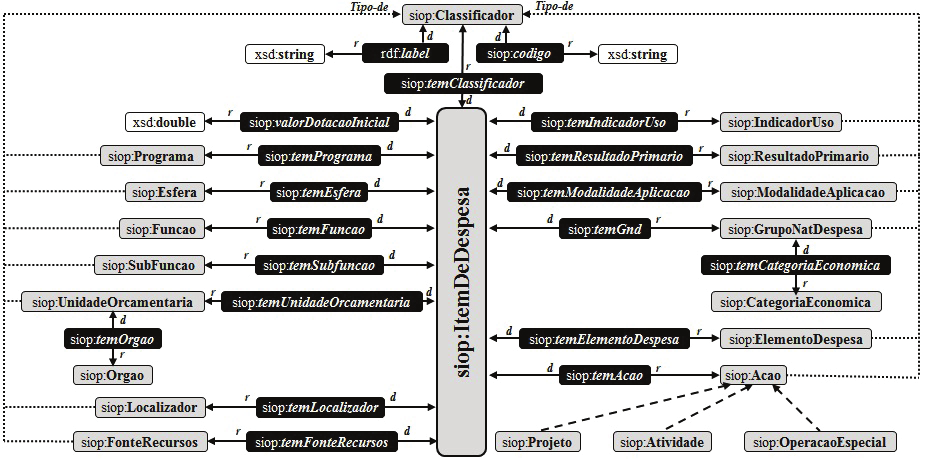
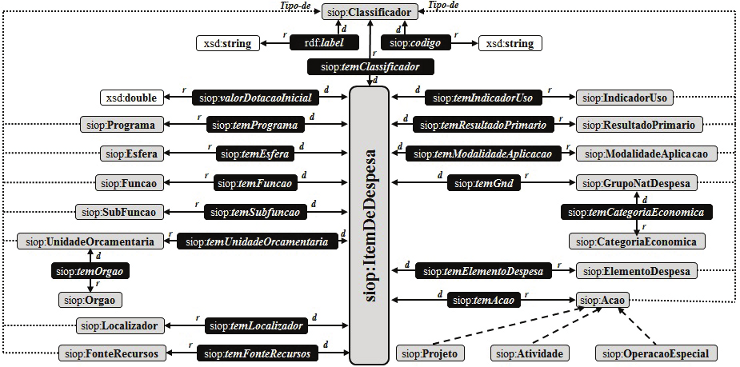
ajustei o tamanho das imagen da documenta??o. Precisei ajustar as tags img do loa.html para width auto.

diff --git a/2012/08/loa.html b/2012/08/loa.html
@@ -27,7 +27,7 @@
     <h1>Modelo ontológico da Classificação das Despesas do Orçamento Federal Brasileiro</h1>
     <dl>
         <dt>Esta Versão:</dt>
-        <dd>Agosto 2012 (<a href="LOA2012.owl">OWL/XML</a>)</dd>
+        <dd>Agosto 2012 (<a href="loa2012.owl">OWL/XML</a>)</dd>
         <dt>Documentos de Referência:</dt>
         <dd><a href="https://www.siop.planejamento.gov.br/rdf/manual_de_referencia_2012.pdf">Manual de Referência</a></dd>
         <dd><a href="https://www.siop.planejamento.gov.br/rdf/carta_de_servicos_orcamento_federal_em_rdf.pdf">Carta de Serviços</a></dd>
@@ -92,13 +92,13 @@
     <h3><a id="modelo" name="modelo">2.2. O modelo ontológico das Classificações da Despesa</a><a class="headerlink" href="#modelo" title="Link para este título">¶</a></h3>
     <p>O orçamento da União é organizado como uma lista de itens de despesa. A cada item desta lista está associado um valor financeiro denominado Dotação Inicial que é o valor alocado na Lei Orçamentária Anual – LOA para aquele determinado Item de Despesa. Cada item de Despesa está associado a um código de 37 dígitos, que o vinculam aos critérios de classificação da despesa, constantes do MTO (Brasil, 2012). A Figura 2.1 ilustra a estruturação de um item de despesa para a LOA 2012, com a apresentação de seus códigos e descrições.</p>
 
-    <img class="diagrama" src="item-de-despesa.png" alt="Item de Despesa" />
+    <img class="diagrama" src="item-de-despesa.png" alt="Item de Despesa" style="width: auto;" />
 
 	<p>A definição da ontologia teve como princípio refletir esta organização na publicação dos dados da despesa orçamentária. A Figura 2.2 apresenta a estrutura das classes, que são representadas por retângulos na cor cinza e as relações entre elementos de classes, representados por retângulos pretos. O <i>range</i> das relações é representado por uma letra r, enquanto o domínio (domain) é representado pela letra d. Linhas tracejadas representam relações de subclasse.</p>
 	<p>A classe central da ontologia é a classe ItemDeDespesa que, como dito anteriormente, representa um linha do orçamento. Cada ItemDeDespesa tem um valor associado, por meio da relação ValorDotaçãoInicial. A soma total dos valores de cada Item de Despesa é o valor total do orçamento 2012, ou seja: R$ 2.150.458.867,507,00.</p>
 	<p>As classificações possuem relação de especialização com a classe Classificador e cada classificador possui um rótulo descritivo (label) e um código. As classes referentes a estas classificações foram definidas de modo a abranger todos os 37 dígitos do código de um item de despesa.</p>
 
-    <img class="diagrama" src="ontologia-da-despesa.png" alt="Ontologia da despesa do Orçamento Federal" />
+    <img class="diagrama" src="ontologia-da-despesa.png" alt="Ontologia da despesa do Orçamento Federal" style="width: auto;" />
     
     <p>A Tabela 2.1, a seguir, apresenta a relação da nomenclatura das classes principais da ontologia básica de orçamento estabelecidas no âmbito do projeto e sua correlação com os tipos de classificação apresentadas no MTO (Brasil, 2012). Existem também subclasses que são especializações de outras. Por exemplo, a classe Ação possui as subclasses Atividade, Projeto e Operação Especial, que representam particularizações do conceito de Ação. Na prática, um Item de Despesa tem obrigatoriamente uma relação com Ação, mais especificamente com uma dessas três subclasses.</p>
 	<table border="1">
@@ -287,33 +287,33 @@
     <p>RDF (Resource Description Framework) é um modelo recomendado pela W3C para descrever recursos encontrados na web, sendo um dos pilares da Web Semântica. RDF define uma forma simples de expressar afirmações sobre esses recursos. A unidade de informação utilizada por este modelo é a tripla composta de sujeito, predicado e objeto, formando assim uma afirmação (statement).</p>
 	<p>Para que um recurso seja identificado dentro do contexto apresentado pela Web Semântica é atribuído a ele um URI (Uniform Resource Identifier), ou seja, tanto o sujeito como o predicado e o objeto estão associados a um identificador de recursos.</p>
 
-    <img class="diagrama" src="exemplo-tripla-rdf.png" alt="Exemplo de uma tripla RDF" />
+    <img  style="width: auto;" class="diagrama" src="exemplo-tripla-rdf.png" alt="Exemplo de uma tripla RDF" />
 
 	<p>Um conjunto de triplas forma um grafo de modelo de dados, no qual uma tripla é representada por dois “nós” e a ligação entre eles. Portanto um arquivo RDF é constituído por uma série de triplas interligadas, que resultam em afirmações a respeito dos relacionamentos entre recursos. Cada nó pode ser uma URI que identifica um recurso, um dado do tipo literal ou até mesmo um nó em branco.</p>
 
-    <img class="diagrama" src="exemplo-grafo-rdf.png" alt="Exemplo de um grafo RDF" />
+    <img  style="width: auto;" class="diagrama" src="exemplo-grafo-rdf.png" alt="Exemplo de um grafo RDF" />
 
 	<p>As descrições RDF apresentadas nas Figuras 3.1 e 3.2 foram mostradas graficamente. Porém, para construir e disponibilizar um arquivo RDF, é necessário que este esteja na forma textual. O RDF pode ser expresso textualmente por meio de outras sintaxes. A linguagem mais utilizada para este fim e recomendada pela W3C é o RDF/XML, que possibilita a serialização de um grafo RDF em um documento no formato XML.</p>
 	<p>Existem outras sintaxes que facilitam a leitura e escrita de arquivos RDF serializados, dentre elas o N-Triples, que é um formato mais completo, e o <i>Turtle</i> que é mais simples, além de englobar as características da forma de serialização do formato N-Triples. O <i>Turtle</i> apresenta a possibilidade de incluir <i>namespaces</i> em sua sintaxe, ou seja, abreviações atribuindo nomes para URIs. Também são usados outros recursos para simplificar sua escrita, criando assim uma maneira compacta de representar triplas.</p>
 	<p>Pelos motivos citados, o arquivo RDF da LOA 2012 foi disponibilizado em formato <i>Turtle</i>, que é um formato mais simples de descrição textual onde as triplas RDF são apresentadas diretamente em forma de linhas na ordem de sujeito, predicado e objeto, onde um ponto final (.) encerra a tripla.</p>
 	<p>Para exemplificar o uso e formato do arquivo RDF, utilizaremos um exemplo de Item de Despesa da LOA de 2012 transformado em sentenças RDF. Tomaremos inicialmente o Item de Despesa descrito na Figura 3.3, com os seus respectivos atributos qualitativos e quantitativos.</p>
 	
-    <img class="diagrama" src="item-despesa-loa-2012.png" alt="Item de despesa da LOA 2012" />
+    <img  style="width: auto;" class="diagrama" src="item-despesa-loa-2012.png" alt="Item de despesa da LOA 2012" />
 
 	<p>Nesse caso, as sentenças RDF foram criadas tomando como base a definição de conceitos e relações da ontologia OWL descrita na seção 2 e deram origem a uma descrição RDF serializada em formato Turtle que está apresentada na Figura 3.4.</p>
 
-    <img class="diagrama" src="item-despesa-turtle.png" alt="Item de despesa da LOA 2012 descrita em RDF e serializada na notação Turtle (parte 1)" />
+    <img  style="width: auto;" class="diagrama" src="item-despesa-turtle.png" alt="Item de despesa da LOA 2012 descrita em RDF e serializada na notação Turtle (parte 1)" />
 
 	<p>Na Figura 3.4, da linha 1 até a linha 4 estão definidos os prefixos para os seguintes namespaces que compõem a descrição RDF: <i>(i)</i> http://localhost/rdf_loa2012/ontologia/ – para as definições da ontologia descrita no Capítulo 2 deste manual. Perceba que o caminho da ontologia é fictício e deve ser adaptado para o contexto de cada usuário da ontologia (veja mais adiante no Capítulo 4, sobre como utilizar o arquivo RDF); <i>(ii)</i> http://localhost/rdf_loa2012/instancias/ – para a definição das URI`s das instâncias; <i>(iii)</i> http://www.w3.org/1999/02/22-rdf-syntax-ns# – faz referência ao vocabulário padrão RDF; e <i>(iv)</i> http://www.w3.org/2001/XMLSchema# – namespace padrão para a definição dos tipos de dados utilizados na especificação.</p>
 	<p>Da linha 6 até a linha 20 são descritas as informações do Item de Despesa em questão descritas de acordo com a sintaxe Turtle. Na linha 6 é descrita a que classe pertence o sujeito da tripla e isto é feito pela utilização da propriedade <i>rdf:type</i>. Nas 15 linhas seguintes são descritas as relações com todos os classificadores. Isto ocorre por meio das propriedades definidas na ontologia da LOA 2012. Nesse caso, os objetos de todas essas triplas são instâncias das classes de cada classificador. A linha 20, por exemplo, refere-se à propriedade que descreve o valor de dotação inicial do Item de Despesa, também sendo informado o seu tipo de dado que é o <i>double</i> (siop:valorDotacaoInicial).</p>
 
-    <img class="diagrama" src="item-despesa-turtle2.png" alt="Item de despesa da LOA 2012 descrita em RDF e serializada na notação Turtle (parte 2)" />
+    <img  style="width: auto;" class="diagrama" src="item-despesa-turtle2.png" alt="Item de despesa da LOA 2012 descrita em RDF e serializada na notação Turtle (parte 2)" />
 
 	<p>A parte seguinte do arquivo de exemplo está descrita na Figura 3.5, que contém as linhas de 22 a 61. Nessa parte do arquivo estão as definições das classes a que pertencem os objetos que se relacionaram com o Item de Despesa em questão e as descrições (rdf:label) e códigos (siop:codigo) de cada um.</p>
 	<p>Portanto, o arquivo RDF resultante conterá linhas com: (i) uma sentença para registrar que um determinado Item de Despesa tem Dotação Inicial igual a R$ 1.900.000,00; e (ii) várias outras sentenças para afirmar características desse Item de Despesa tais como o programa, ação, função e demais classificadores vinculados. Por exemplo, no arquivo RDF, a linha 10 do arquivo descrito na Figura 3.4 e linhas 31 e 32 da Figura 3.5 compõem sentenças que deixam claro que a subfunção associada ao Item de Despesa descrito na Figura 3.3 é “Tecnologia da Informação”.</p>
 	<p>Na Figura 3.6 estão apresentadas, de forma gráfica, as sentenças RDF relativas ao exemplo da Figura 3.3 e seus respectivos tipos e significados diante da especificação OWL descrita na seção 2 (nessa figura algumas propriedades foram omitidas para melhor visualização).</p>	
 
-    <img class="diagrama" src="mapeamento-sentenca-especificao.png" alt="Mapeamento de informações entre os arquivos de sentenças RDF e de especificação OWL" />
+    <img  style="width: auto;" class="diagrama" src="mapeamento-sentenca-especificao.png" alt="Mapeamento de informações entre os arquivos de sentenças RDF e de especificação OWL" />
 
 
 
@@ -326,10 +326,10 @@
 		<li><i>descompactar esses arquivos em uma pasta do usuário;</i></li>
 		<li><i>no caso específico em que os dados da LOA 2012 forem disponibilizados em algum website, execute os passos 5 e 6. Se os dados forem usados em modo local não há a necessidade de nenhuma alteração;</i></li>
 		<li><i>editar o arquivo LOA2012.owl com uso de algum editor de texto para alterar o namespace referente à própria ontologia descrita nesse arquivo. Mais especificamente, as linhas que devem ser alteradas estão destacadas com um círculo vermelho na Figura 4.1. O domínio que está contido na URI deve ser modificado de acordo com o caminho da aplicação web que irá fazer uso dos dados. Exemplo: http://meuwebsite.com.br/rdf_loa2012/ontologia/.; e</i>
-		    <img class="diagrama" src="descricao-linhas-loa2012.png" alt="Descrição das primeiras linhas do arquivo LOA2012.owl" />		
+		    <p><img  style="width: auto;" class="diagrama" src="descricao-linhas-loa2012.png" alt="Descrição das primeiras linhas do arquivo LOA2012.owl" /></p>		
 		</li>
 		<li><i>editar o arquivo RDF_LOA2012.ttl com uso de algum editor de texto e alterar o namespace para que seja igual à URI que foi definida no arquivo LOA2012.owl. Mais especificamente, as linhas que devem ser alteradas estão destacadas com um círculo vermelho na Figura 4.2. Exemplo: http://meuwebsite.com.br/rdf_loa2012/ontologia/ e <u>http://meuwebsite.com.br/rdf_loa2012/instancias/</u>.</i>
-		    <img class="diagrama" src="descricao-arquivo.ttl.png" alt=" Descrição das primeiras linhas do arquivo RDF_LOA2012.ttl" />		
+		    <p><img  style="width: auto;" class="diagrama" src="descricao-arquivo.ttl.png" alt=" Descrição das primeiras linhas do arquivo RDF_LOA2012.ttl" /></p>		
 		</li>
 	</ol>
 	
@@ -339,16 +339,16 @@
     <p>A possibilidade mais comum é o uso de triplestores para persistir os dados do RDF de maneira semelhante ao armazenamento de bases de dados em SGBD’s relacionais. A partir do triplestore e de um endpoint, uma consulta SPARQL pode ser efetuada na base e o resultado recuperado em uma planilha, em um formato XML, em formato JSON, no próprio formato RDF, entre outros.</p>
 	<p>Existem diversas ferramentas para manipulação de grafos RDF, tais como raciocinadores para inferência, visualizadores para apresentação gráfica, navegadores para web semântica, entre outros. Aos desenvolvedores estão disponíveis API’s para o desenvolvimento de aplicações que fazem uso de dados RDF.</p>
 
-    <img class="diagrama" src="ferramentas-manipulacao.png" alt="Ferramentas para manipulação de grafos" />
+    <img  style="width: auto;" class="diagrama" src="ferramentas-manipulacao.png" alt="Ferramentas para manipulação de grafos" />
 
     <h3><a id="exemplos" name="exemplos">4.2. Exemplos de uso do arquivo RDF</a><a class="headerlink" href="#exemplos" title="Link para este título">¶</a></h3>
     <p>Um exemplo concreto de dado que pode ser extraído é o seguinte: Existe uma Ação na LOA 2012 que tem a descrição “Ensino Profissional Marítimo”. Caso se queria saber quanto foi alocado de dotação inicial para essa Ação deve-se somar os valores de todos os Itens de Despesa que possuem relação temAção com a ação cujo <i>label</i> possui a <i>string</i> “Ensino Profissional Marítimo”. Então como descobrir quais são esses itens e soma-los? Uma consulta SPARQL pode ser usada para recuperar essas informações, formando a seguinte query:</p>
-    <img class="diagrama" src="consulta-sparql.png" alt="Consulta SPARQL" />
+    <img  style="width: auto;" class="diagrama" src="consulta-sparql.png" alt="Consulta SPARQL" />
 	<p>O resultado é o seguinte:</p>
-    <img class="diagrama" src="resultado-consulta-sparql.png" alt="Resultado da consulta SPARQL" />
+    <img  style="width: auto;" class="diagrama" src="resultado-consulta-sparql.png" alt="Resultado da consulta SPARQL" />
 	<p>Na linha 5 da consulta são selecionados todas as instâncias que possuem a propriedade <i>siop:temAcao</i> (Todos os Itens de Despesa), na linha 6 é feita uma filtragem onde somente são selecionadas as instâncias em que a propriedade <i>rdf:label</i> seja “Ensino Profissional Marítimo”.</p>
 	<p>A seguir é mostrado uma consulta para saber o valor total das dotações iniciais de todos os Item de Despesa.</p>
-    <img class="diagrama" src="consulta-sparql2.png" alt="Consulta SPARQL" />
+    <img  style="width: auto;" class="diagrama" src="consulta-sparql2.png" alt="Consulta SPARQL" />
 	<p>Resultando na soma:</p>
 	<table border="1" align="center">
 		<tr>
@@ -362,7 +362,7 @@
 	<p>Na linha 5 e 6 são feitos exatamente os mesmos passos da consulta anterior. Na linha 7, após estarem selecionados somente os Itens de Despesa da Ação “Ensino Profissional Marítimo”, são pegos os valores <i>siop:valorDotacaoInicial</i> de cada um, e na linha 4 é utilizada uma função agregadora do SPARQL, a SUM(), que soma todos os valores que estão contidos na variável de consulta <i>?valor e os chama de ?valorTotal</i>.</p>
 	<p>O exemplo de consulta SPARQL foi feito utilizando componentes do <i>Jena Framework</i>, o Fuseki como endpoint SPARQL e o TDB como <i>triplestore</i>.</p>
 	<p>O mesmo raciocínio pode ser utilizado para extrair mais informações selecionadas, como por exemplo, o valor total da despesa de pessoal (GND = ‘1’) para o Ministério da Educação (Órgão = ‘26000’). O resultado é:</p>
-    <img class="diagrama" src="consulta-sparql3.png" alt="Consulta SPARQL" />
+    <img  style="width: auto;" class="diagrama" src="consulta-sparql3.png" alt="Consulta SPARQL" />
 	<table border="1" align="center">
 		<tr>
 			<th>?valorTotal</th>
@@ -391,20 +391,20 @@
     <h3><a id="glo-RDF" name="glo-RDF">RDF</a><a class="headerlink" href="#glo-RDF" title="Link para este título">¶</a></h3>
 	<p>O RDF (<i>Resource Description Framework</i>) é um modelo recomendado pela W3C para descrever recursos encontrados na web, sendo um dos pilares da Web Semântica. Arquivos em RDF são adequados para representar dados, na qual é utilizada uma forma simples de expressar afirmações sobre estes recursos.</p>
 	<p>A unidade de informação utilizada por este modelo é chamada tripla, na qual é composta pelos seguintes recursos: sujeito, predicado (propriedade) e objeto, formando assim uma afirmação (<i>statement</i>). Para que um recurso seja identificado dentro do contexto apresentado pela Web Semântica é atribuído a ele um URI (<i>Uniform Resource Identifier</i>), ou seja, tanto sujeito, predicado e objeto estão associados a um identificador de recursos.</p>
-    <img class="diagrama" src="exemplo-tripla-rdf.png" alt="Exemplo de tripla RDF" />
+    <img  style="width: auto;" class="diagrama" src="exemplo-tripla-rdf.png" alt="Exemplo de tripla RDF" />
 
 	<p>Um conjunto de triplas forma um Grafo de modelo de dados, no qual uma tripla é representada por dois “nós” e a ligação entre eles. Portanto um arquivo RDF é constituído por uma série de triplas interligadas, que resultam em afirmações a respeito dos relacionamentos entre recursos. Cada nó pode ser um URI que identifica um recurso, um dado do tipo literal, ou até mesmo um nó em branco.</p>
-    <img class="diagrama" src="exemplo-grafo-rdf.png" alt="Exemplo de um grafo RDF" />
+    <img  style="width: auto;" class="diagrama" src="exemplo-grafo-rdf.png" alt="Exemplo de um grafo RDF" />
 	
     <h3><a id="glo-serializacao" name="glo-serializacao">Serialização</a><a class="headerlink" href="#glo-serializacao" title="Link para este título">¶</a></h3>
 	<p>Até o momento as triplas foram mostradas visualmente através de gráficos, porém para construir e disponibilizar um arquivo RDF é necessário que este esteja na forma textual. O RDF não é uma linguagem própria, portanto faz-se o uso de outras sintaxes para se expressar textualmente. A linguagem mais utilizada para este fim e recomendada pela W3C é o RDF/XML, na qual é realizada uma serialização de um grafo RDF em um documento no formato XML.</p>
-    <img class="diagrama" src="exemplo-rdf-xml.png" alt="Exemplo de arquivo no formato RDF/XML" />
+    <img  style="width: auto;" class="diagrama" src="exemplo-rdf-xml.png" alt="Exemplo de arquivo no formato RDF/XML" />
 
 	<p>Existem outras sintaxes que facilitam a leitura e escrita de arquivos RDF serializados. O N-Triples é a linguagem mais simples de representação textual destes arquivos, onde apresenta as triplas diretamente em formas de linhas. Os recursos são escritos diretamente com seu URI (entre < >) e também na ordem de sujeito, predicado e objeto, onde um ponto final (.) encerra a tripla.</p>
-    <img class="diagrama" src="exemplo-ntriples.png" alt="Exemplo de arquivo no formato N-Triples" />
+    <img  style="width: auto;" class="diagrama" src="exemplo-ntriples.png" alt="Exemplo de arquivo no formato N-Triples" />
 
 	<p>Outro formato de fácil compreensão e bastante utilizado é o <i>Turtle</i>. Além de englobar as características da forma de serialização N-Triples, o <i>Turtle</i> apresenta a possibilidade de incluir <i>namespaces</i> em sua sintaxe, ou seja, é possível utilizar abreviações atribuindo nomes para URIs. Também são usados outros recursos para simplificar sua escrita, criando assim uma maneira compacta de representar triplas.</p>
-    <img class="diagrama" src="exemplo-turtle.png" alt="Exemplo de arquivo no formato turtle" />
+    <img  style="width: auto;" class="diagrama" src="exemplo-turtle.png" alt="Exemplo de arquivo no formato turtle" />
 
     <h3><a id="glo-ontologia" name="glo-ontologia">Ontologia</a><a class="headerlink" href="#glo-ontologia" title="Link para este título">¶</a></h3>
 	<p>Ontologias fornecem um vocabulário preciso que contém o conhecimento a cerca de tudo o que pode ser representado. Este vocabulário permite especificar quais entidades serão representadas, como elas estarão agrupadas, e quais relacionamentos as mantém interligadas. Este vocabulário pode ser visto como uma relação direta entre quem fornece os dados e quem os utilizam. Quanto maior a precisão de uma ontologia, maior será a compreensão de como os dados podem ser utilizados.</p>
@@ -419,14 +419,14 @@ as classes e suas propriedades, possibilitando um maior entendimento sobre o con
     <h3><a id="glo-SPARQL" name="glo-SPARQL">SPARQL</a><a class="headerlink" href="#glo-SPARQL" title="Link para este título">¶</a></h3>
 	<p>Assim como a linguagem SQL permite a realização de consultas padronizadas em bancos de dados relacionais, SPARQL (<i>Simple Protocol and RDF Query Language</i>) é utilizado para realizar consultas em grafos RDF. É considerada uma tecnologia chave no contexto da Web Semântica e desde 2008 se tornou uma recomendação da W3C.</p>
 	<p>Para formular uma consulta SPARQL é necessário informar dentro da cláusula <i>WHERE</i> quais triplas devem ser analisadas, e selecionar na cláusula <i>SELECT</i> os recursos a serem exibidos, podendo ser incluídos filtros para a pesquisa. Para representar os recursos que podem variar nas triplas a serem pesquisadas é utilizado o termo “?” juntamente com o nome da variável em questão. Sua sintaxe apresenta semelhança com a utilizada pela linguagem SQL. A consulta ilustrada abaixo retorna o nome e email de todos os indivíduos pertencentes ao grafo pesquisado.</p>
-    <img class="diagrama" src="exemplo-consulta-sparql.png" alt="Exemplo de consulta SPARQL" />
+    <img  style="width: auto;" class="diagrama" src="exemplo-consulta-sparql.png" alt="Exemplo de consulta SPARQL" />
 
     <h3><a id="glo-endpoint" name="glo-endpoint">Endpoint</a><a class="headerlink" href="#glo-endpoint" title="Link para este título">¶</a></h3>
 	<p>Um Endpoint é acessado diretamente por uma URI e permite que qualquer usuário efetue uma consulta SPARQL em uma determinada base de conhecimento na Internet. As triplas que compõe a base de dados ficam armazenadas em um <i>Triple-Store</i>, que apresenta funcionalidade semelhante à de um SGBD (<i>Sistema de Gerenciamento de Banco de Dados</i>), sendo responsável pela persistência dos dados. O <i>Endpoint</i> recebe a consulta SPARQL desejada pelo usuário e em seguida acessa o <i>Triple-Store</i> para realizar a pesquisa e consequentemente retornar os resultados obtidos.</p>
     
     Conteúdo licenciado sob uma Licença
     <a href="http://creativecommons.org/licenses/by/3.0/" rel="license">
-        <img src="http://i.creativecommons.org/l/by/3.0/80x15.png" style="border-width: 0pt;" alt="Licença Creative Commons">
+        <img  style="width: auto;" src="http://i.creativecommons.org/l/by/3.0/80x15.png" style="border-width: 0pt;" alt="Licença Creative Commons">
         Creative Commons - Atribuição 3.0 Não Adaptada
     </a>.
 </footer>
